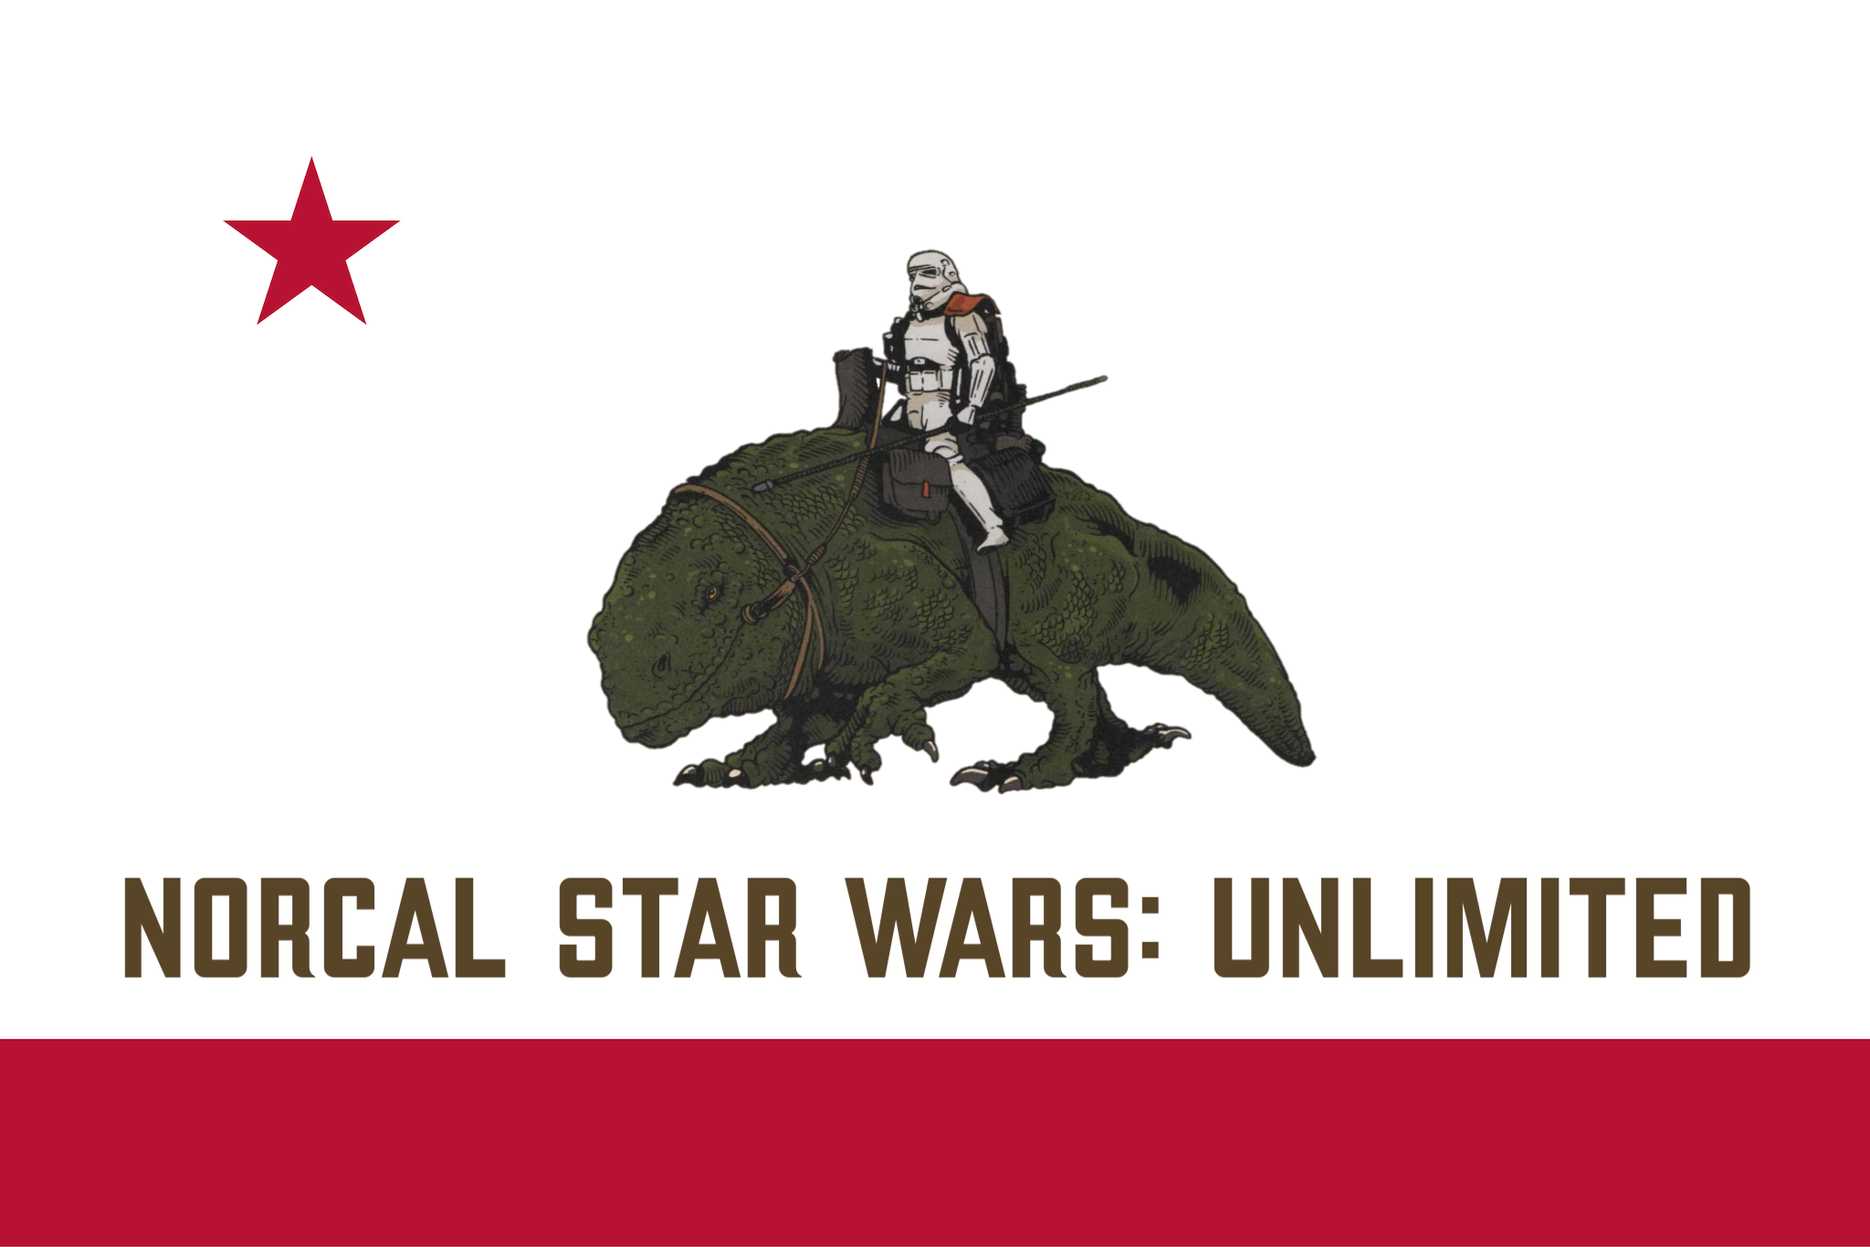
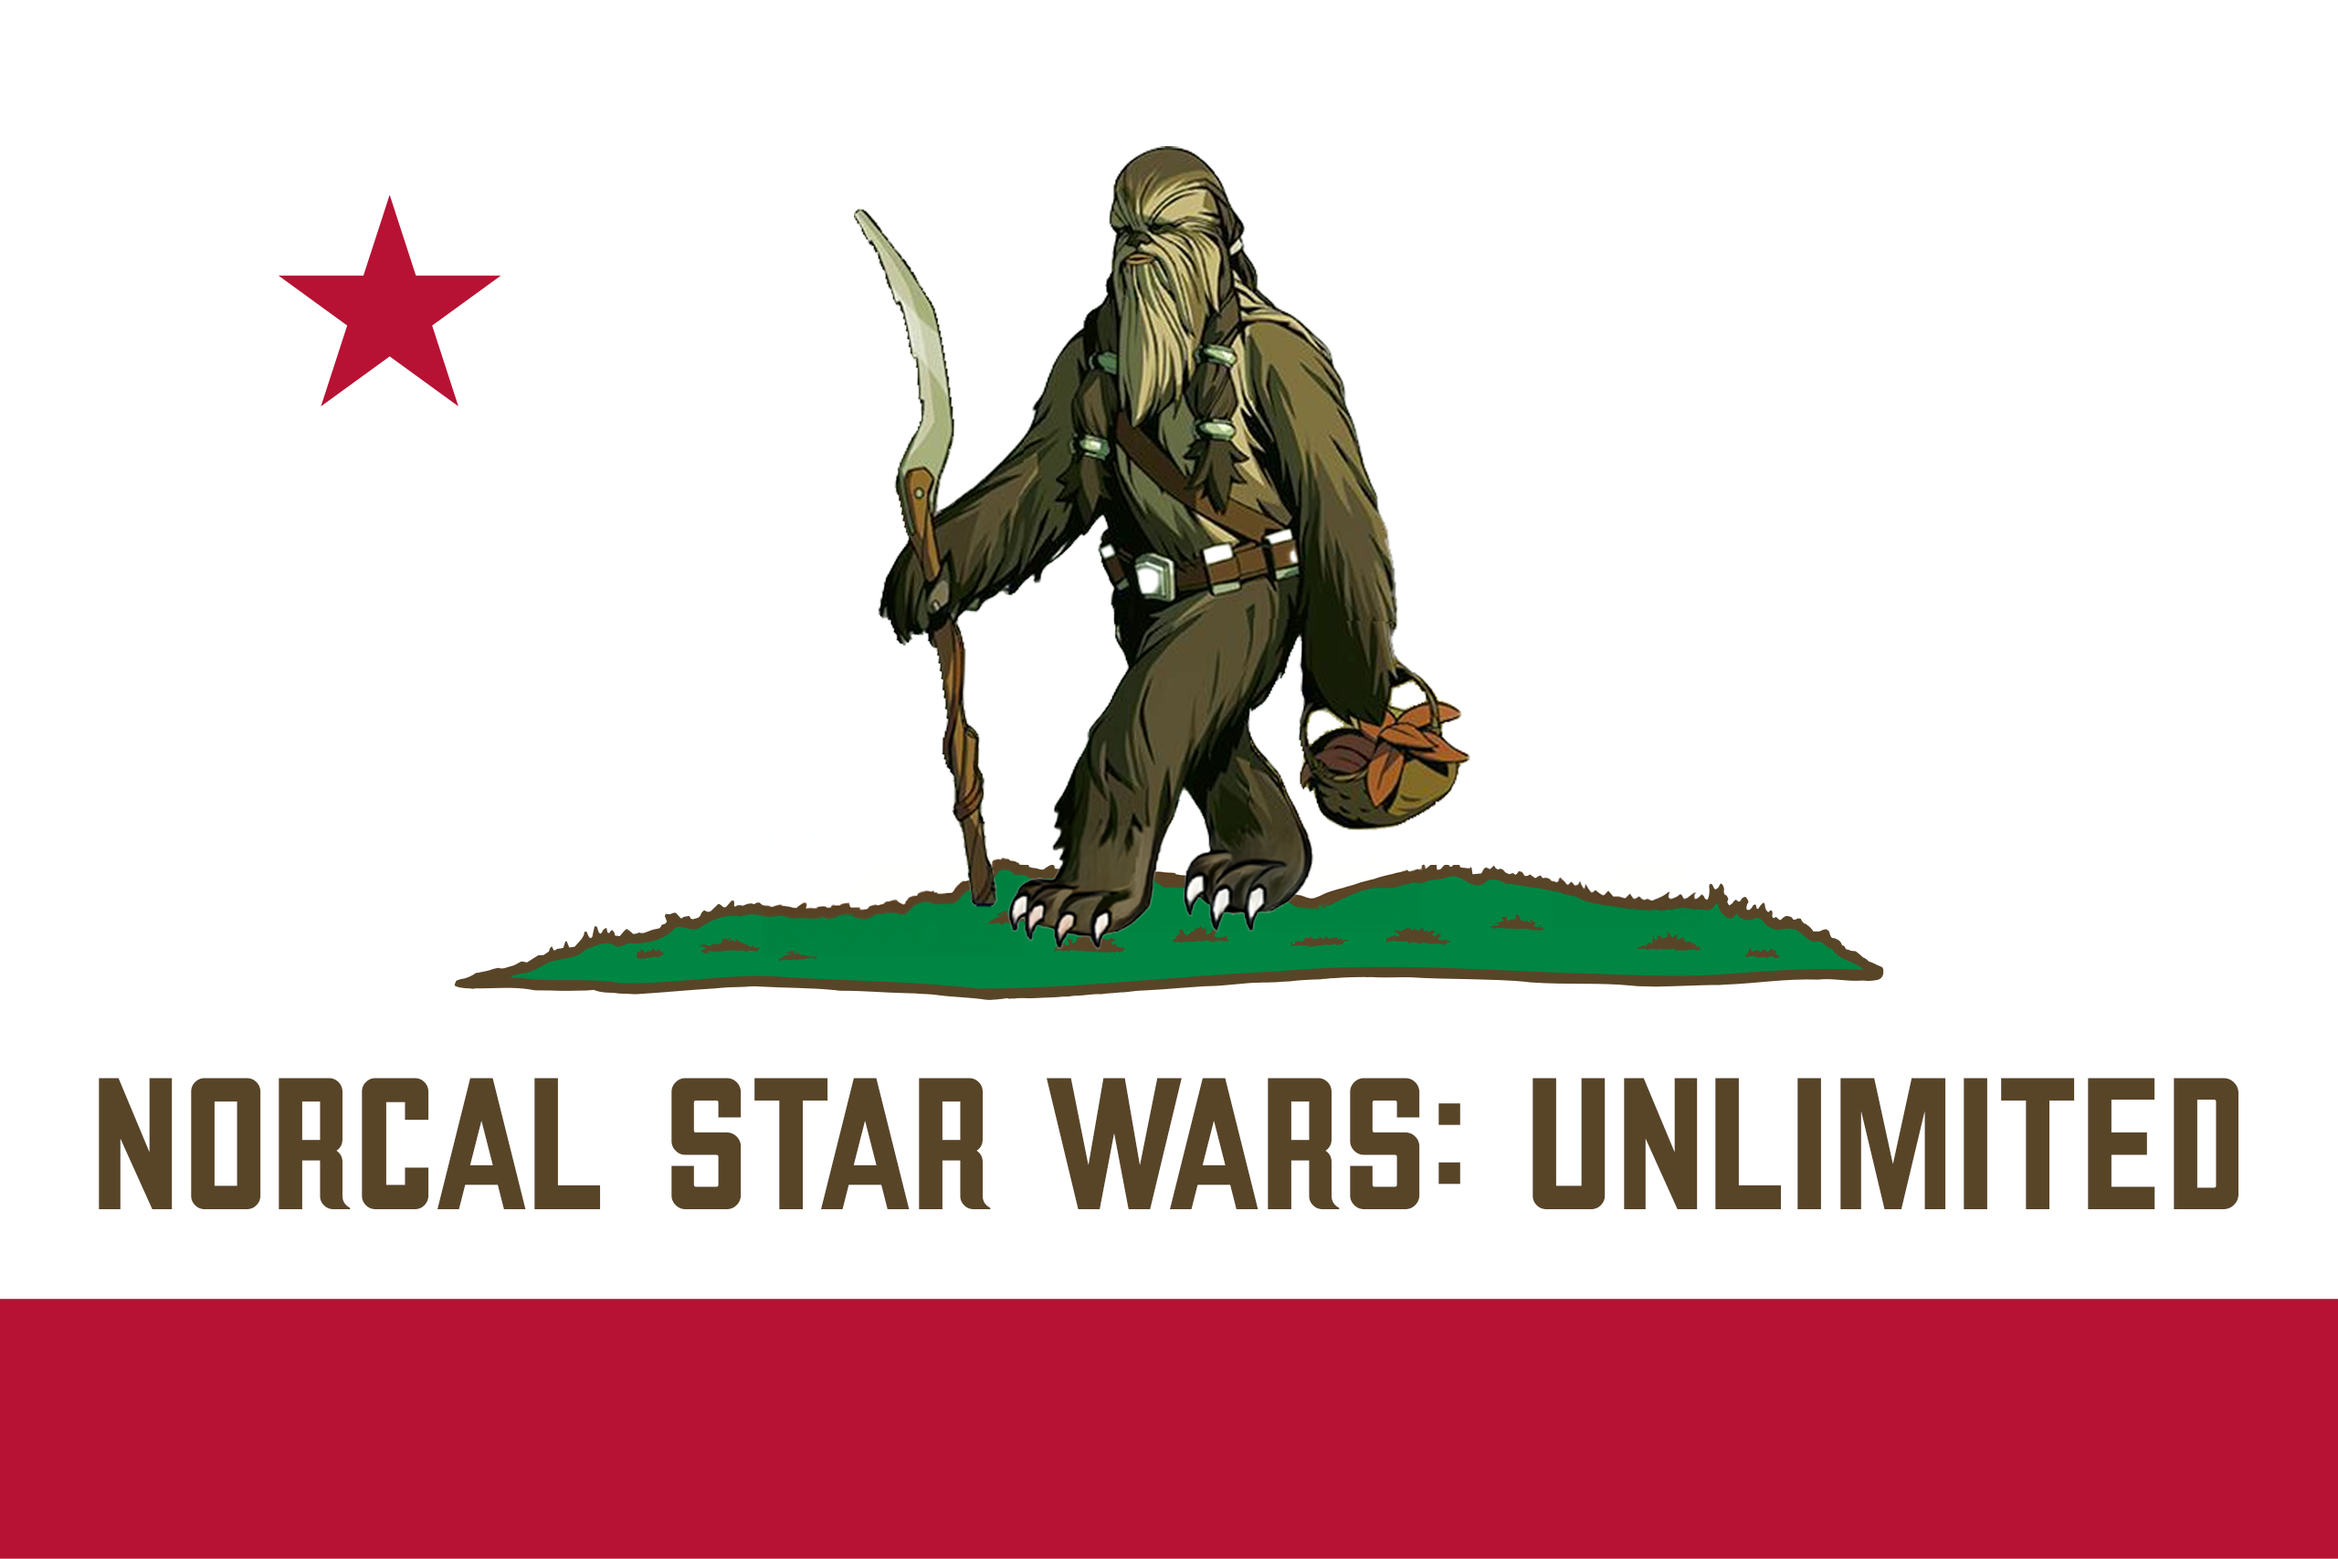
update og tags etc

Changed region(s): [[0.1875, 0.0922, 0.8125, 0.6457], [0.0312, 0.6764, 0.9688, 0.7994], [0.3438, 0.123, 0.375, 0.1537]]

diff --git a/src/app/page.tsx b/src/app/page.tsx
@@ -263,8 +263,9 @@ const stores = {
     },
     social: {
       facebook: "https://www.facebook.com/GameKastleFremont/",
-      website: "https://www.gamekastle.com/stores/fremont",
+      website: "https://gamekastle.com/stores/fremont",
       instagram: "https://www.instagram.com/gamekastlefremont/",
+      discord: "https://discord.gg/gamekastle",
     },
   },
   illusiveComics: {
@@ -312,7 +313,7 @@ const stores = {
     },
     social: {
       facebook: "https://www.facebook.com/GameKastleRedwoodCity/",
-      website: "https://www.gamekastle.com/stores/redwoodcity",
+      website: "https://gamekastle.com/stores/redwoodcity",
       instagram: "https://www.instagram.com/gamekastleredwoodcity/",
       discord: "https://discord.gg/JuJP4JBSUa",
     },
@@ -341,6 +342,97 @@ const stores = {
       instagram: "https://www.instagram.com/gamelandia.fun/",
     },
   },
+  fireAndIce: {
+    name: "Fire & Ice Games",
+    address: {
+      street: "6660 Lonetree Blvd",
+      city: "Rocklin",
+      state: "CA",
+      zip: "95765",
+      googleMapsUrl: "https://www.google.com/maps/place/Fire+%26+Ice+Games/@38.7975,-121.2859,17z",
+    },
+    contact: {
+      phone: "(916) 771-2161",
+    },
+    events: {
+      weeklyPlay: "Fridays 6:30pm",
+      showdown: "TBD",
+    },
+    social: {
+      instagram: "https://www.instagram.com/fire.and.ice.games",
+      facebook: "https://www.facebook.com/p/Fire-Ice-Games-LLC-100071624994565/",
+    },
+  },
+  cardShopSac: {
+    name: "Card Shop Sacramento X Gold Star Collectibles",
+    address: {
+      street: "2440 Fulton Ave Suite 9",
+      city: "Sacramento",
+      state: "CA",
+      zip: "95825",
+      googleMapsUrl: "https://www.google.com/maps/place/Card+Shop+Sacramento+X+Gold+Star+Collectibles/@38.5974,-121.4778,17z",
+    },
+    contact: {
+      phone: "(916) 360-2394",
+      email: "sales@goldstarcollectibles.com",
+    },
+    events: {
+      weeklyPlay: "Thursdays 6:00pm",
+      showdown: "TBD",
+    },
+    social: {
+    website: "https://www.goldstarcollectibles.com",
+
+    },
+  },
+  hammerhead: {
+    name: "Hammerhead Games",
+    address: {
+      street: "5800 Madison Ave Suite V & W",
+      city: "Sacramento",
+      state: "CA",
+      zip: "95841",
+      googleMapsUrl: "https://www.google.com/maps/place/Hammerhead+Games/@38.6619,-121.3766,17z",
+    },
+    contact: {
+      phone: "(916) 279-4994",
+      email: "HammerheadGames@Outlook.com",
+    },
+    events: {
+      weeklyPlay: "Mondays 6:30pm",
+      showdown: "TBD",
+    },
+    social: {
+    facebook: "https://www.facebook.com/HHGSAC",
+      website: "https://www.hammerheadgames.net/",
+      discord: "https://discord.com/invite/Y9qecUgkdF",
+      instagram: "https://www.instagram.com/hammerhead_games/",
+    },
+  },
+  gameKastleSac: {
+    name: "Game Kastle Sacramento",
+    address: {
+      street: "5522 Garfield Ave",
+      city: "Sacramento",
+      state: "CA",
+      zip: "95841",
+      googleMapsUrl: "https://www.google.com/maps/place/Game+Kastle+Sacramento/@38.6486,-121.3464,17z",
+    },
+    contact: {
+      phone: "(916) 331-8707",
+      email: "sacramento@gamekastle.com",
+    },
+    events: {
+      weeklyPlay: "Thursdays 6:30pm",
+      showdown: "TBD",
+      registrationUrl: "https://gamekastle.com/stores/sacramento",
+    },
+    social: {
+      facebook: "https://www.facebook.com/GameKastleSacramento/",
+      website: "https://gamekastle.com/stores/sacramento",
+      discord: "https://discord.gg/gamekastle",
+    },
+  },
 };
 
 export default function Home() {
@@ -350,8 +442,8 @@ export default function Home() {
       <section className="text-center py-8 flex flex-col items-center bg-white">
         <div className="w-full md:w-[50%] mb-6">
           <Image
-            src="/Flag_of_California.png"
-            alt="California State Flag"
+            src="/NorCalSWU.png"
+            alt="NorCal Star Wars: Unlimited Logo"
             width={600}
             height={338}
             className="w-full h-auto"
@@ -483,7 +575,13 @@ export default function Home() {
         {/* Sacramento */}
         <div className="mb-12">
           <h3 className="text-xl font-bold mb-6 text-gray-900 border-b pb-2">Sacramento</h3>
-          <p className="text-gray-800 text-sm mb-2">Sacramento, Davis, Folsom, Roseville</p>
+          <p className="text-gray-800 text-sm mb-2">Sacramento, Davis, Folsom, Roseville, Rocklin</p>
+          <div className="grid md:grid-cols-2 gap-8 auto-cols-min">
+            <StoreCard {...stores.fireAndIce} />
+            <StoreCard {...stores.cardShopSac} />
+            <StoreCard {...stores.hammerhead} />
+            <StoreCard {...stores.gameKastleSac} />
+          </div>
         </div>
 
         {/* Contact Info */}

diff --git a/src/app/layout.tsx b/src/app/layout.tsx
@@ -64,6 +64,22 @@ export const metadata: Metadata = {
     description: "Join the NorCal Star Wars: Unlimited community! Find local events, connect with players, and learn about the game.",
     type: "website",
     locale: "en_US",
+    images: [{
+      url: "/NorCalSWU.png",
+      width: 600,
+      height: 338,
+      alt: "NorCal Star Wars: Unlimited Logo"
+    }],
+  },
+  twitter: {
+    card: "summary_large_image",
+    title: "NorCal Star Wars: Unlimited",
+    description: "Join the NorCal Star Wars: Unlimited community! Find local events, connect with players, and learn about the game.",
+    images: ["/NorCalSWU.png"],
+  },
+  icons: {
+    icon: "/NorCalSWU.png",
+    apple: "/NorCalSWU.png",
   },
 };
 

diff --git a/src/app/components/StoreCard.tsx b/src/app/components/StoreCard.tsx
@@ -12,7 +12,7 @@ interface StoreCardProps {
   };
   contact: {
     phone: string;
-    email: string;
+    email?: string;
   };
   events: {
     weeklyPlay?: string;
